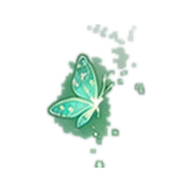
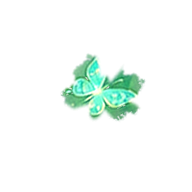
Clean butterfly art and add wing motion

Changed region(s): [[0.2188, 0.125, 0.7812, 0.8125], [0.4688, 0.8125, 0.5625, 0.875]]

diff --git a/styles.css b/styles.css
@@ -2512,6 +2512,8 @@ h2 {
   display: block;
   object-fit: contain;
   opacity: 0.86;
+  transform-origin: 50% 54%;
+  will-change: transform, opacity;
   filter:
     drop-shadow(0 0 8px rgba(198, 255, 218, 0.45))
     drop-shadow(0 0 22px rgba(88, 255, 213, 0.28));
@@ -2668,6 +2670,28 @@ button:hover,
   animation: cameraGlassPulse 2.8s ease-in-out infinite;
 }
 
+.topbar {
+  background:
+    linear-gradient(90deg, rgba(2, 12, 8, 0.58) 0%, rgba(7, 32, 21, 0.42) 48%, rgba(2, 14, 9, 0.56) 100%),
+    linear-gradient(180deg, rgba(248, 255, 246, 0.06), rgba(10, 42, 27, 0.18) 62%, rgba(4, 18, 12, 0.42)),
+    url("assets/forest-poster-v1.png") center 38% / cover no-repeat,
+    linear-gradient(135deg, rgba(4, 17, 12, 0.98), rgba(11, 48, 31, 0.95) 36%, rgba(23, 76, 49, 0.9) 68%, rgba(35, 104, 61, 0.84));
+  background-blend-mode: normal, soft-light, normal, normal;
+}
+
+.topbar::before {
+  background:
+    linear-gradient(180deg, rgba(250, 255, 249, 0.1), transparent 34%),
+    linear-gradient(90deg, rgba(3, 18, 12, 0.18), rgba(247, 255, 246, 0.03) 46%, rgba(3, 18, 12, 0.22));
+  opacity: 0.9;
+  backdrop-filter: blur(1.2px) saturate(0.96);
+  -webkit-backdrop-filter: blur(1.2px) saturate(0.96);
+}
+
+.cyber-scene::before {
+  opacity: 0.42;
+}
+
 @keyframes captureGlassBreath {
   0%,
   100% {
@@ -2725,30 +2749,51 @@ button:hover,
 @keyframes posterButterflyFloatA {
   0%,
   100% {
-    transform: translate3d(0, 0, 0) rotate(-4deg) scale(1);
+    transform: translate3d(0, 0, 0) rotate(-4deg) scaleX(1) scaleY(1);
   }
-  50% {
-    transform: translate3d(-8px, -10px, 0) rotate(5deg) scale(1.04);
+  18% {
+    transform: translate3d(-3px, -4px, 0) rotate(1deg) scaleX(1.1) scaleY(0.93);
+  }
+  38% {
+    transform: translate3d(-8px, -10px, 0) rotate(5deg) scaleX(0.94) scaleY(1.09);
+  }
+  58% {
+    transform: translate3d(-6px, -7px, 0) rotate(2deg) scaleX(1.08) scaleY(0.95);
+  }
+  78% {
+    transform: translate3d(-2px, -3px, 0) rotate(-3deg) scaleX(0.97) scaleY(1.04);
   }
 }
 
 @keyframes posterButterflyFloatB {
   0%,
   100% {
-    transform: translate3d(0, 0, 0) rotate(7deg) scale(1);
+    transform: translate3d(0, 0, 0) rotate(7deg) scaleX(1) scaleY(1);
+  }
+  22% {
+    transform: translate3d(5px, -4px, 0) rotate(1deg) scaleX(0.93) scaleY(1.1);
   }
   48% {
-    transform: translate3d(8px, -9px, 0) rotate(-3deg) scale(1.05);
+    transform: translate3d(8px, -9px, 0) rotate(-3deg) scaleX(1.1) scaleY(0.94);
+  }
+  70% {
+    transform: translate3d(3px, -5px, 0) rotate(3deg) scaleX(0.96) scaleY(1.06);
   }
 }
 
 @keyframes posterButterflyFloatC {
   0%,
   100% {
-    transform: translate3d(0, 0, 0) rotate(-10deg) scale(1);
+    transform: translate3d(0, 0, 0) rotate(-10deg) scaleX(1) scaleY(1);
+  }
+  20% {
+    transform: translate3d(-2px, 3px, 0) rotate(-4deg) scaleX(1.12) scaleY(0.92);
   }
   54% {
-    transform: translate3d(-6px, 6px, 0) rotate(4deg) scale(1.05);
+    transform: translate3d(-6px, 6px, 0) rotate(4deg) scaleX(0.93) scaleY(1.1);
+  }
+  82% {
+    transform: translate3d(-3px, 2px, 0) rotate(-7deg) scaleX(1.07) scaleY(0.96);
   }
 }
 

diff --git a/index.html b/index.html
@@ -11,7 +11,7 @@
     <link rel="manifest" href="manifest.webmanifest" />
     <link rel="icon" href="icons/icon-192.png" />
     <link rel="apple-touch-icon" sizes="180x180" href="icons/apple-touch-icon.png" />
-    <link rel="stylesheet" href="styles.css?v=25" />
+    <link rel="stylesheet" href="styles.css?v=26" />
   </head>
   <body>
     <div class="app-shell">
@@ -298,6 +298,6 @@
       </tr>
     </template>
 
-    <script src="app.js?v=25"></script>
+    <script src="app.js?v=26"></script>
   </body>
 </html>

diff --git a/sw.js b/sw.js
@@ -1,4 +1,4 @@
-const cacheName = "fantasy-inventory-v25";
+const cacheName = "fantasy-inventory-v26";
 const assets = [
   "./",
   "./index.html",
@@ -23,6 +23,7 @@ const assets = [
   "./styles.css?v=23",
   "./styles.css?v=24",
   "./styles.css?v=25",
+  "./styles.css?v=26",
   "./app.js",
   "./app.js?v=6",
   "./app.js?v=7",
@@ -44,6 +45,7 @@ const assets = [
   "./app.js?v=23",
   "./app.js?v=24",
   "./app.js?v=25",
+  "./app.js?v=26",
   "./manifest.webmanifest",
   "./apple-touch-icon.png",
   "./assets/forest-poster-v1.png",